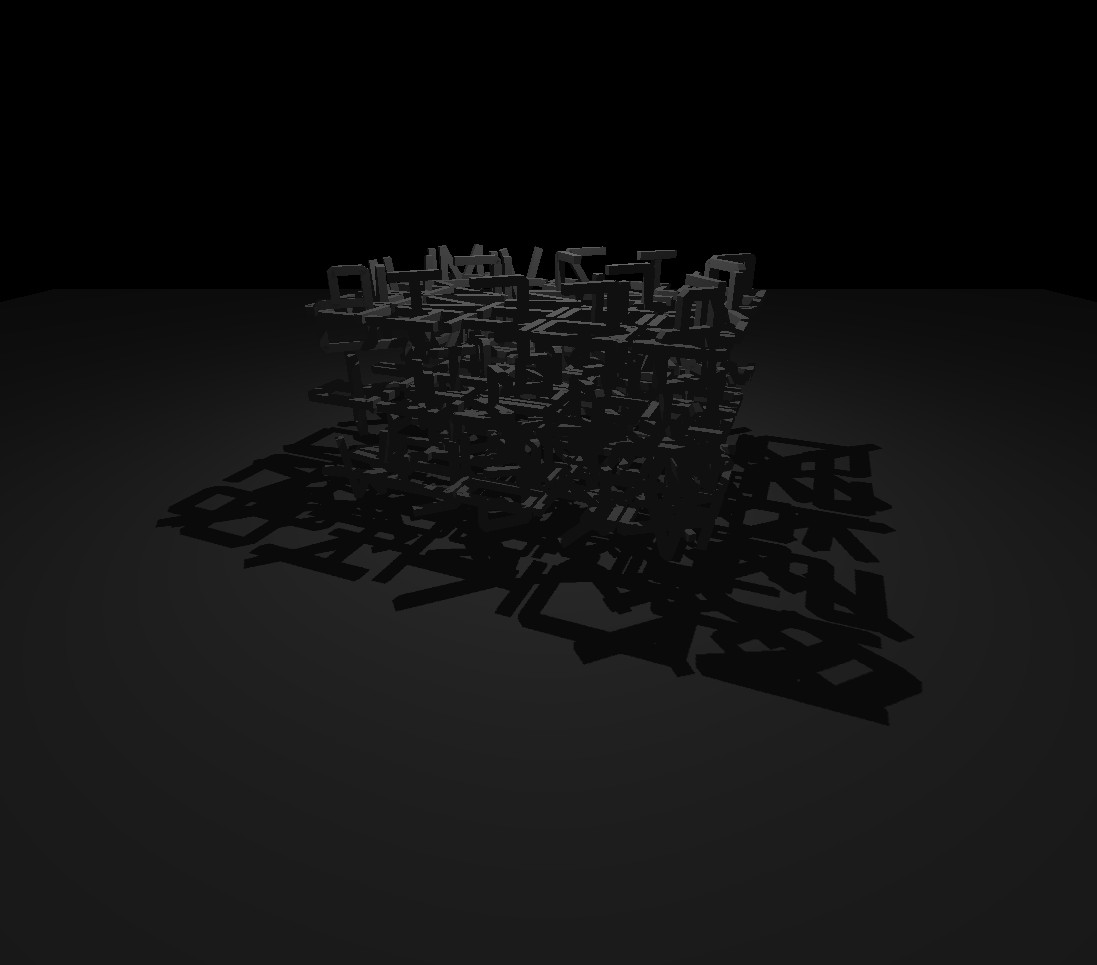
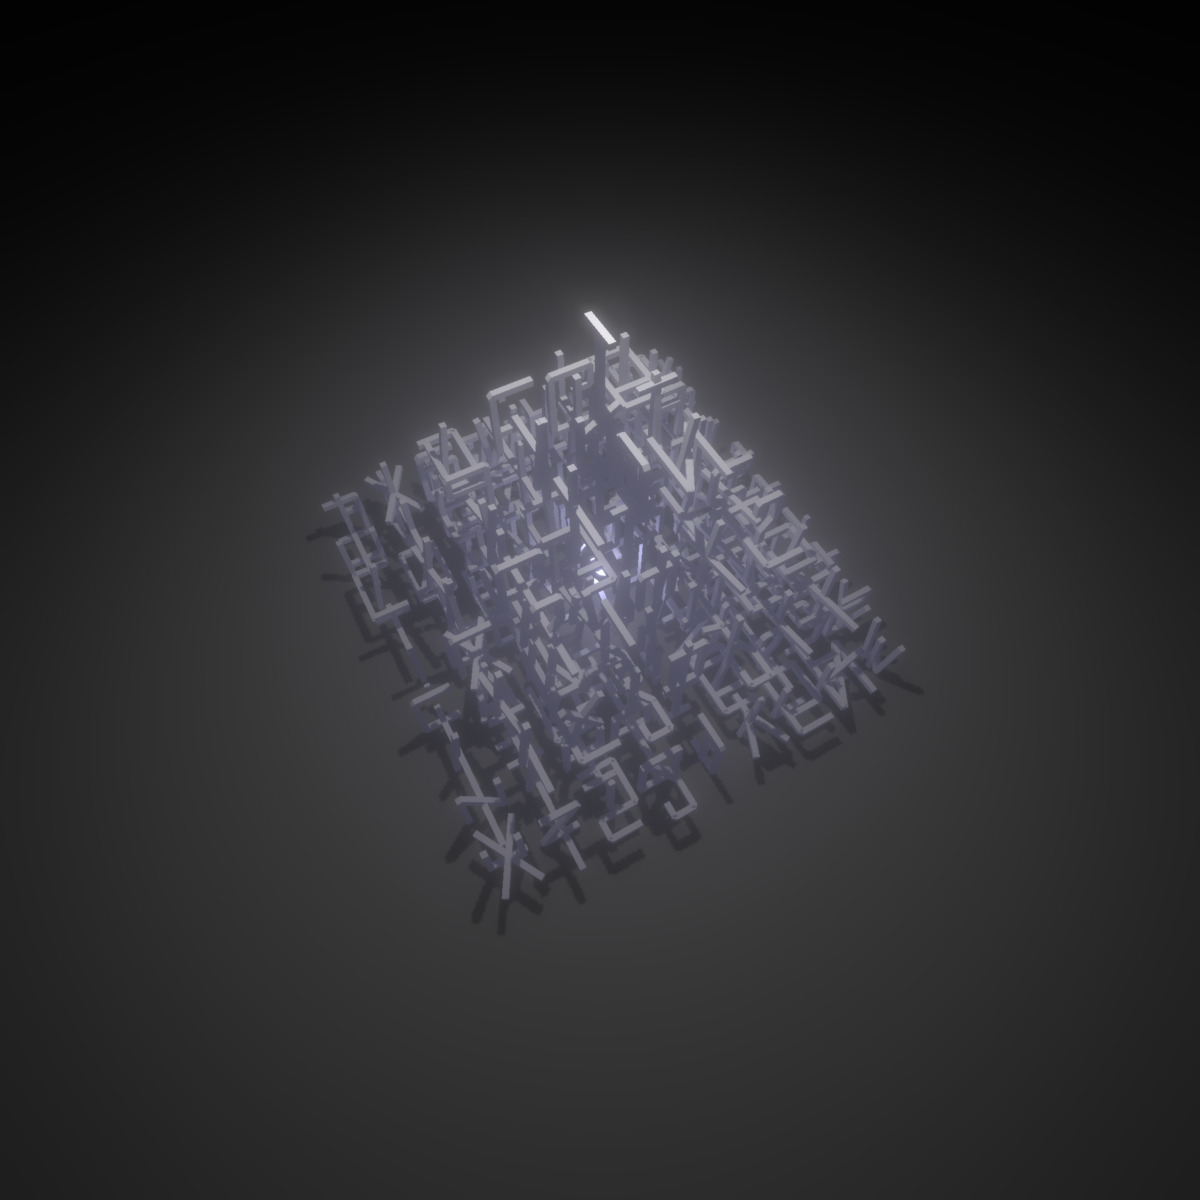
add bloom effect

diff --git a/sketch/letter-to-geometry/index.js b/sketch/letter-to-geometry/index.js
@@ -1,12 +1,20 @@
 import '../full-canvas.css'
+import infobox from '../../sketch-common/infobox'
+import handleAction from '../../sketch-common/handle-action'
 import * as THREE from 'three'
 import Stats from 'three/examples/jsm/libs/stats.module'
 import { OrbitControls } from 'three/examples/jsm/controls/OrbitControls.js'
 import { getGlyphVector } from '@nclslbrn/plot-writer'
+import { EffectComposer } from 'three/addons/postprocessing/EffectComposer.js'
+import { RenderPass } from 'three/addons/postprocessing/RenderPass.js'
+import { UnrealBloomPass } from 'three/addons/postprocessing/UnrealBloomPass.js'
+import { OutputPass } from 'three/addons/postprocessing/OutputPass.js'
 
 // An array of possible char used in the composition
-const T = [...'ABCDEFGHIJKLMNOPQRSTUVWXYZ0123456789|||||||||||||||||///////////////?????!!!!!'] 
-const d = 0.025
+const T = [
+    ...'ABCDEFGHIJKLMNOPQRSTUVWXYZ0123456789|||||||||||||||||///////////////?????!!!!!'
+]
+const d = 0.02
 const extruderPoints = [
     [-d, -d],
     [d, -d],
@@ -58,11 +66,11 @@ class App {
         windowFrame.appendChild(this.stats.dom)
         this.stats.dom.style.left = 'auto'
         this.stats.dom.style.right = '0'
-        this.stats.dom.style.pointerEvent = "none"
+        this.stats.dom.style.pointerEvent = 'none'
     }
 
     createGlyph(letter, pos, rx, ry) {
-        const glyphGeometry = glyphGeom(letter, [0.4, 1])
+        const glyphGeometry = glyphGeom(letter, [0.35, 1])
         glyphGeometry.map((geom) => {
             const m = new THREE.Mesh(geom, this.glyphMat)
             m.position.x = pos[0]
@@ -79,15 +87,19 @@ class App {
 
     initScene() {
         this.scene = new THREE.Scene()
-        this.glyphMat = new THREE.MeshLambertMaterial({ color: 0xffffff, emissive: 0x222222 })
+        this.clock = new THREE.Clock()
+        this.glyphMat = new THREE.MeshLambertMaterial({
+            color: 0xffffff,
+            emissive: 0x222233
+        })
         this.camera = new THREE.PerspectiveCamera(
             75,
             window.innerWidth / window.innerHeight,
             0.1,
             20
         )
-        this.camera.position.y = -4
-        this.camera.position.z = 4.5
+        this.camera.position.y = -3
+        this.camera.position.z = 5
         this.camera.lookAt(this.scene.position)
 
         this.renderer = new THREE.WebGLRenderer()
@@ -96,54 +108,56 @@ class App {
         this.renderer.setPixelRatio(window.devicePixelRatio)
         this.renderer.setSize(window.innerWidth, window.innerHeight)
 
+        const renderScene = new RenderPass(this.scene, this.camera)
+
+        const bloomPass = new UnrealBloomPass(
+            new THREE.Vector2(window.innerWidth, window.innerHeight),
+            1.5,
+            0.4,
+            0.85
+        )
+        bloomPass.threshold = 0
+        bloomPass.strength = 0.5
+        bloomPass.radius = 1
+        const outputPass = new OutputPass()
+
+        this.composer = new EffectComposer(this.renderer)
+        this.composer.addPass(renderScene)
+        this.composer.addPass(bloomPass)
+        this.composer.addPass(outputPass)
+
         windowFrame.appendChild(this.renderer.domElement)
         this.controls = new OrbitControls(this.camera, this.renderer.domElement)
-        this.lightAmbient = new THREE.AmbientLight(0x222222, 0.5)
+        this.lightAmbient = new THREE.AmbientLight(0x000000)
         this.scene.add(this.lightAmbient)
 
         // Add a point light to add shadows
         // https://github.com/mrdoob/three.js/pull/14087#issuecomment-431003830
-        
-        this.lightPoint = new THREE.PointLight(0xffffff, 0.5)
-        this.lightPoint.position.set(0, 0, 6)
-        this.lightPoint.castShadow = true
-        this.lightPoint.intensity = 6
-        this.scene.add(this.lightPoint)
 
-        const lightPoint2 = this.lightPoint.clone()
+        this.topLight = new THREE.PointLight(0xfefcfc, 0.5)
+        this.topLight.position.set(0, 0, 4)
+        this.topLight.castShadow = true
+        this.topLight.intensity = 1
+        this.scene.add(this.topLight)
+
+        this.bottomLight = new THREE.PointLight(0xccccff, 0.5)
+        this.bottomLight.position.set(0, 0, 0.4)
+        this.bottomLight.castShadow = false
+        this.bottomLight.intensity = 0.2
+        this.scene.add(this.bottomLight)
+
+        const lightPoint2 = this.topLight.clone()
         lightPoint2.intensity = 3
         lightPoint2.castShadow = true
         this.scene.add(lightPoint2)
 
-        const mapSize = 1024 // Default 512
+        const mapSize = 2048 // Default 512
         const cameraNear = 0.5 // Default 0.5
-        const cameraFar = 500 // Default 500
-        this.lightPoint.shadow.mapSize.width = mapSize
-        this.lightPoint.shadow.mapSize.height = mapSize
-        this.lightPoint.shadow.camera.near = cameraNear
-        this.lightPoint.shadow.camera.far = cameraFar
-
-        this.glyphs = new THREE.Group()
-        for (let z = 0; z <= 4; z++) {
-            for (let y = (4-z)*-1; y <= 4-z; y++) {
-                for (let x = (4-z)*-1; x <= 4-z; x++) {
-                    this.createGlyph(
-                        T[Math.ceil(Math.random() * T.length)],
-                        [x * 0.35, y * 0.35, z * 0.5],
-                        -Math.PI / 2,
-                        (x + z) % 2 === 0 ? Math.PI / 4 : -Math.PI / 4
-                    )
-                    this.createGlyph(
-                        T[Math.ceil(Math.random() * T.length)],
-                        [x * 0.35, y * 0.35, z * 0.5],
-                        0,
-                        0
-                    )
-                }
-            }
-        }
-        this.glyphs.position.z = 0
-        this.scene.add(this.glyphs)
+        const cameraFar = 50 // Default 500
+        this.topLight.shadow.mapSize.width = mapSize
+        this.topLight.shadow.mapSize.height = mapSize
+        this.topLight.shadow.camera.near = cameraNear
+        this.topLight.shadow.camera.far = cameraFar
 
         // Add a plane
         const geometryPlane = new THREE.PlaneGeometry(
@@ -152,57 +166,90 @@ class App {
             1,
             1
         )
-        const materialPlane = new THREE.MeshPhongMaterial({ color: 0xcccccc })
+        const materialPlane = new THREE.MeshPhongMaterial({ color: 0x888888 })
 
         this.plane = new THREE.Mesh(geometryPlane, materialPlane)
         this.plane.position.z = 0
         this.plane.receiveShadow = true
         this.scene.add(this.plane)
+        this.glyphs = new THREE.Group()
+        for (let z = 0; z <= 4; z++) {
+            for (let y = (4 - z) * -1; y <= 4 - z; y++) {
+                for (let x = (4 - z) * -1; x <= 4 - z; x++) {
+                    this.createGlyph(
+                        T[Math.ceil(Math.random() * T.length)],
+                        [x * 0.35, y * 0.35, z * 0.5],
+                        -Math.PI / 2,
+                        x === 0 || x === 4
+                            ? Math.PI / 2
+                            : y === 0 || y === 4
+                              ? -Math.PI / 2
+                              : 0
+                    )
+                    this.createGlyph(
+                        T[Math.ceil(Math.random() * T.length)],
+                        [x * 0.35, y * 0.35, z * 0.5],
+                        x === 0 || x === 4
+                            ? Math.PI / 2
+                            : y === 0 || y === 4
+                              ? -Math.PI / 2
+                              : 0,
 
+                        0
+                    )
+                }
+            }
+        }
+        this.glyphs.position.z = 0
+        this.scene.add(this.glyphs)
         // Init animation
         this.animate()
     }
-
+    exportJPG() {
+        const win = window.open('', 'Canvas Image')
+        const { domElement } = this.renderer
+        // Makse sure scene is rendered.
+        this.composer.render(this.scene, this.camera)
+        const src = domElement.toDataURL()
+        if (!win) return
+        win.document.write(
+            `<img src='${src}' width='${domElement.width}' height='${domElement.height}'>`
+        )
+    }
     initListeners() {
         window.addEventListener('resize', this.onWindowResize.bind(this), false)
-        window.addEventListener('keydown', (event) => {
-            const { key } = event
-            switch (key) {
-                case 'e':
-                    const win = window.open('', 'Canvas Image')
-                    const { domElement } = this.renderer
-                    // Makse sure scene is rendered.
-                    this.renderer.render(this.scene, this.camera)
-                    const src = domElement.toDataURL()
-                    if (!win) return
-                    win.document.write(
-                        `<img src='${src}' width='${domElement.width}' height='${domElement.height}'>`
-                    )
-                    break
-                default:
-                    break
-            }
-        })
     }
 
     onWindowResize() {
         this.camera.aspect = window.innerWidth / window.innerHeight
         this.camera.updateProjectionMatrix()
         this.renderer.setSize(window.innerWidth, window.innerHeight)
+        this.composer.setSize(window.innerWidth, window.innerHeight)
     }
 
     animate() {
-        requestAnimationFrame(() => {
+        this.req = requestAnimationFrame(() => {
             this.animate()
         })
         this.glyphs.rotation.z += 0.005
-
+        if (this.mixer && this.clock) mixer.update(this.clock.getDelta())
         if (this.stats) this.stats.update()
         if (this.controls) this.controls.update()
-        this.renderer.render(this.scene, this.camera)
+        // this.renderer.render(this.scene, this.camera)
+        this.composer.render()
+    }
+    stop() {
+        console.log('Stopped')
+        cancelAnimationFrame(this.req)
     }
 }
 
 window.addEventListener('DOMContentLoaded', () => {
-    new App()
+    let sketch = new App()
+    const loader = document.getElementById('loading')
+    windowFrame.removeChild(loader)
+    window.init = () => window.location.reload()
+    window.download = () => sketch.exportJPG()
+    window.infobox = infobox
+    handleAction()
 })

diff --git a/sketch/no-iteration/index.js b/sketch/no-iteration/index.js
@@ -1,7 +1,7 @@
-import '../full-canvas.css'
+import '../framed-canvas.css'
 import infobox from '../../sketch-common/infobox'
 import handleAction from '../../sketch-common/handle-action'
-import { getGlyphPath, getGlyphVector } from '@nclslbrn/plot-writer'
+import { getGlyphVector } from '@nclslbrn/plot-writer'
 import { repeatedly, range } from '@thi.ng/transducers'
 import { polyline, rect, group, svgDoc, asSvg, line } from '@thi.ng/geom'
 import { FMT_yyyyMMdd_HHmmss } from '@thi.ng/date'
@@ -103,7 +103,7 @@ const splitCell = (x, y, g, i) => {
     grids[g].push(...splitted)
 }
 
-const init = () => {
+const init = (lang) => {
     cnvs = document.getElementById('main')
     // Nothing fancy here we need a context to draw in the canvas
     const ctx = cnvs.getContext('2d')
@@ -162,7 +162,7 @@ const init = () => {
             }
         }
     }
-    text.fr.forEach((txtLine, y) => {
+    text[lang].forEach((txtLine, y) => {
         txtLine.forEach((letter, x) => {
             if (letter !== ' ') {
                 numbers.push(
@@ -188,11 +188,11 @@ const init = () => {
 }
 
 const downloadJPG = () =>
-    downloadCanvas(cnvs, `all-grids-${FMT_yyyyMMdd_HHmmss()}`, 'jpeg', 1)
+    downloadCanvas(cnvs, `no-iteration-${FMT_yyyyMMdd_HHmmss()}`, 'jpeg', 1)
 
 const downloadSVG = () =>
     downloadWithMime(
-        `all-grids-${FMT_yyyyMMdd_HHmmss()}.svg`,
+        `no-iteration-${FMT_yyyyMMdd_HHmmss()}.svg`,
         asSvg(
             svgDoc(
                 {
@@ -209,14 +209,23 @@ const downloadSVG = () =>
 $compile(canvas('#main')).mount(ROOT)
 
 /* stuff relative to forsaken-ideas */
+let language = 'en'
 window.init = init
+window.changeLanguage = () => {
+  if (language === 'en') { 
+    language = 'fr'
+  } else if (language === 'fr') {
+    language = 'en'
+  }
+  init(language)
+}
 window.downloadJPG = downloadJPG
 window.downloadSVG = downloadSVG
 infobox()
 handleAction()
-
-init()
-
+init(language)
+/*
 cnvs.style.aspectRatio = '148 / 210'
 cnvs.style.maxWidth = '100%'
 cnvs.style.height = 'auto'
+*/
